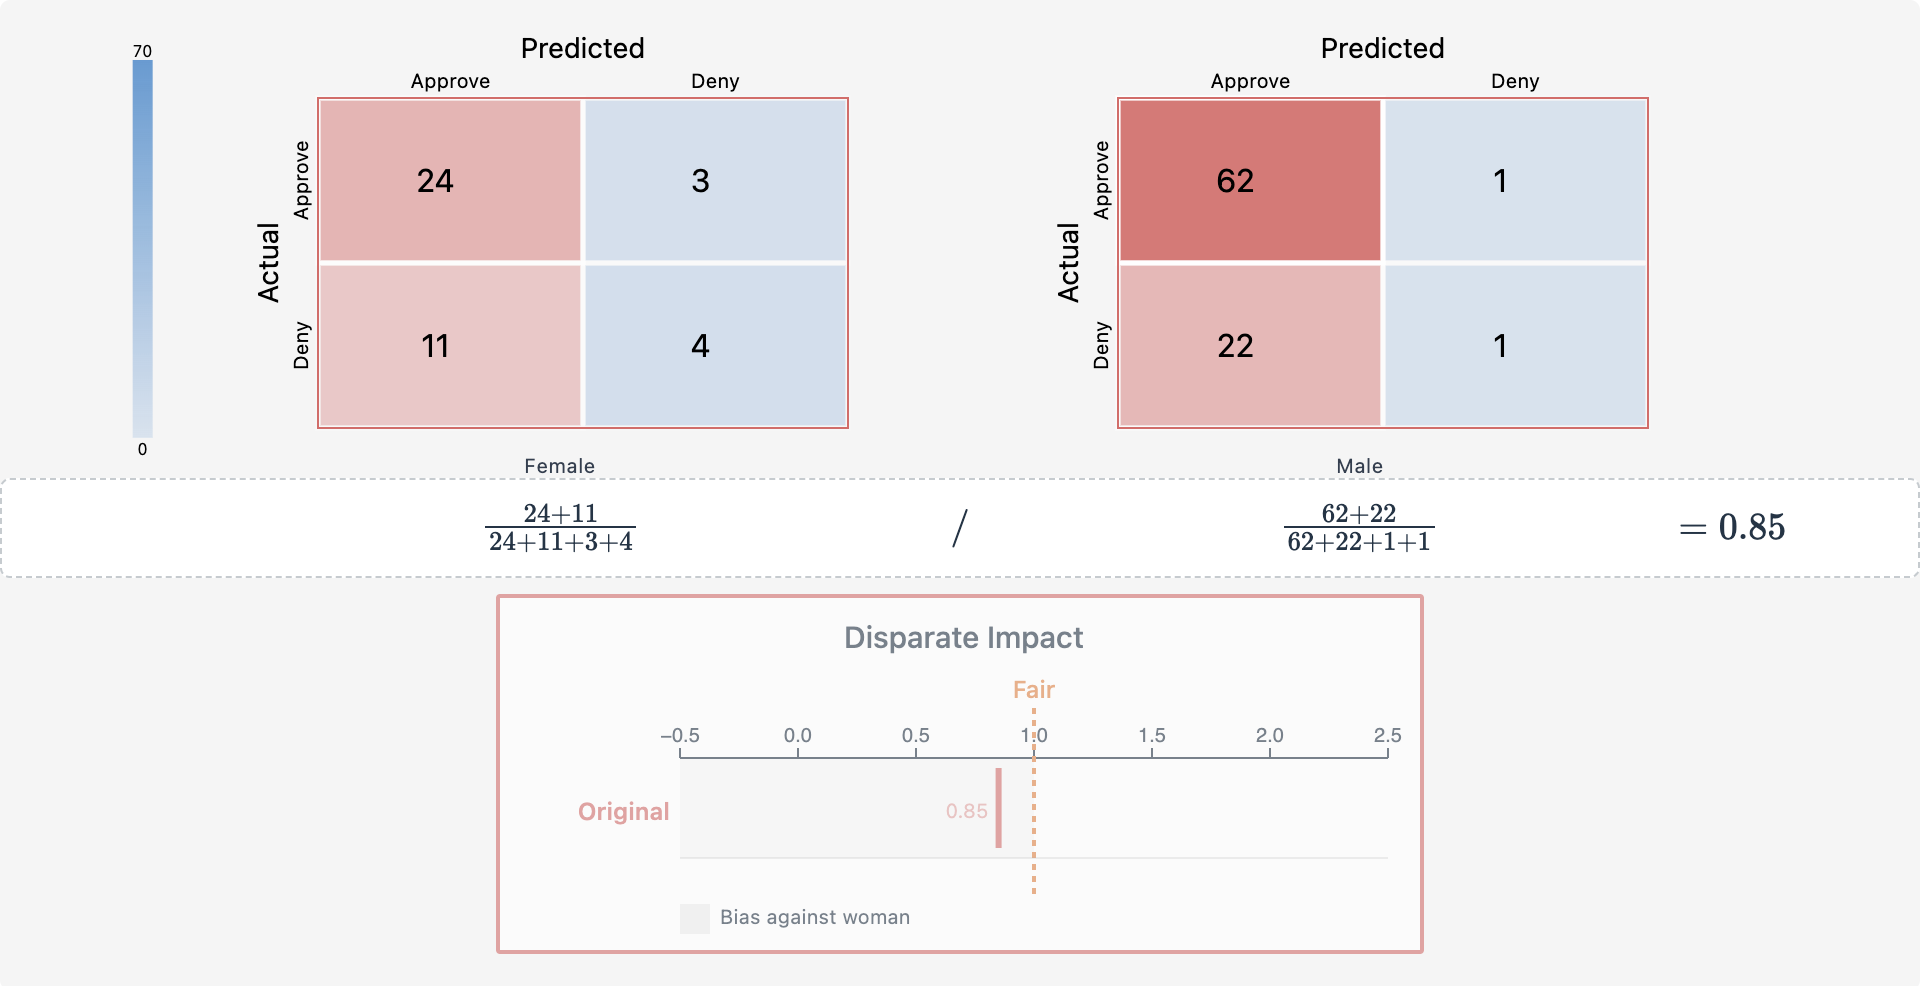
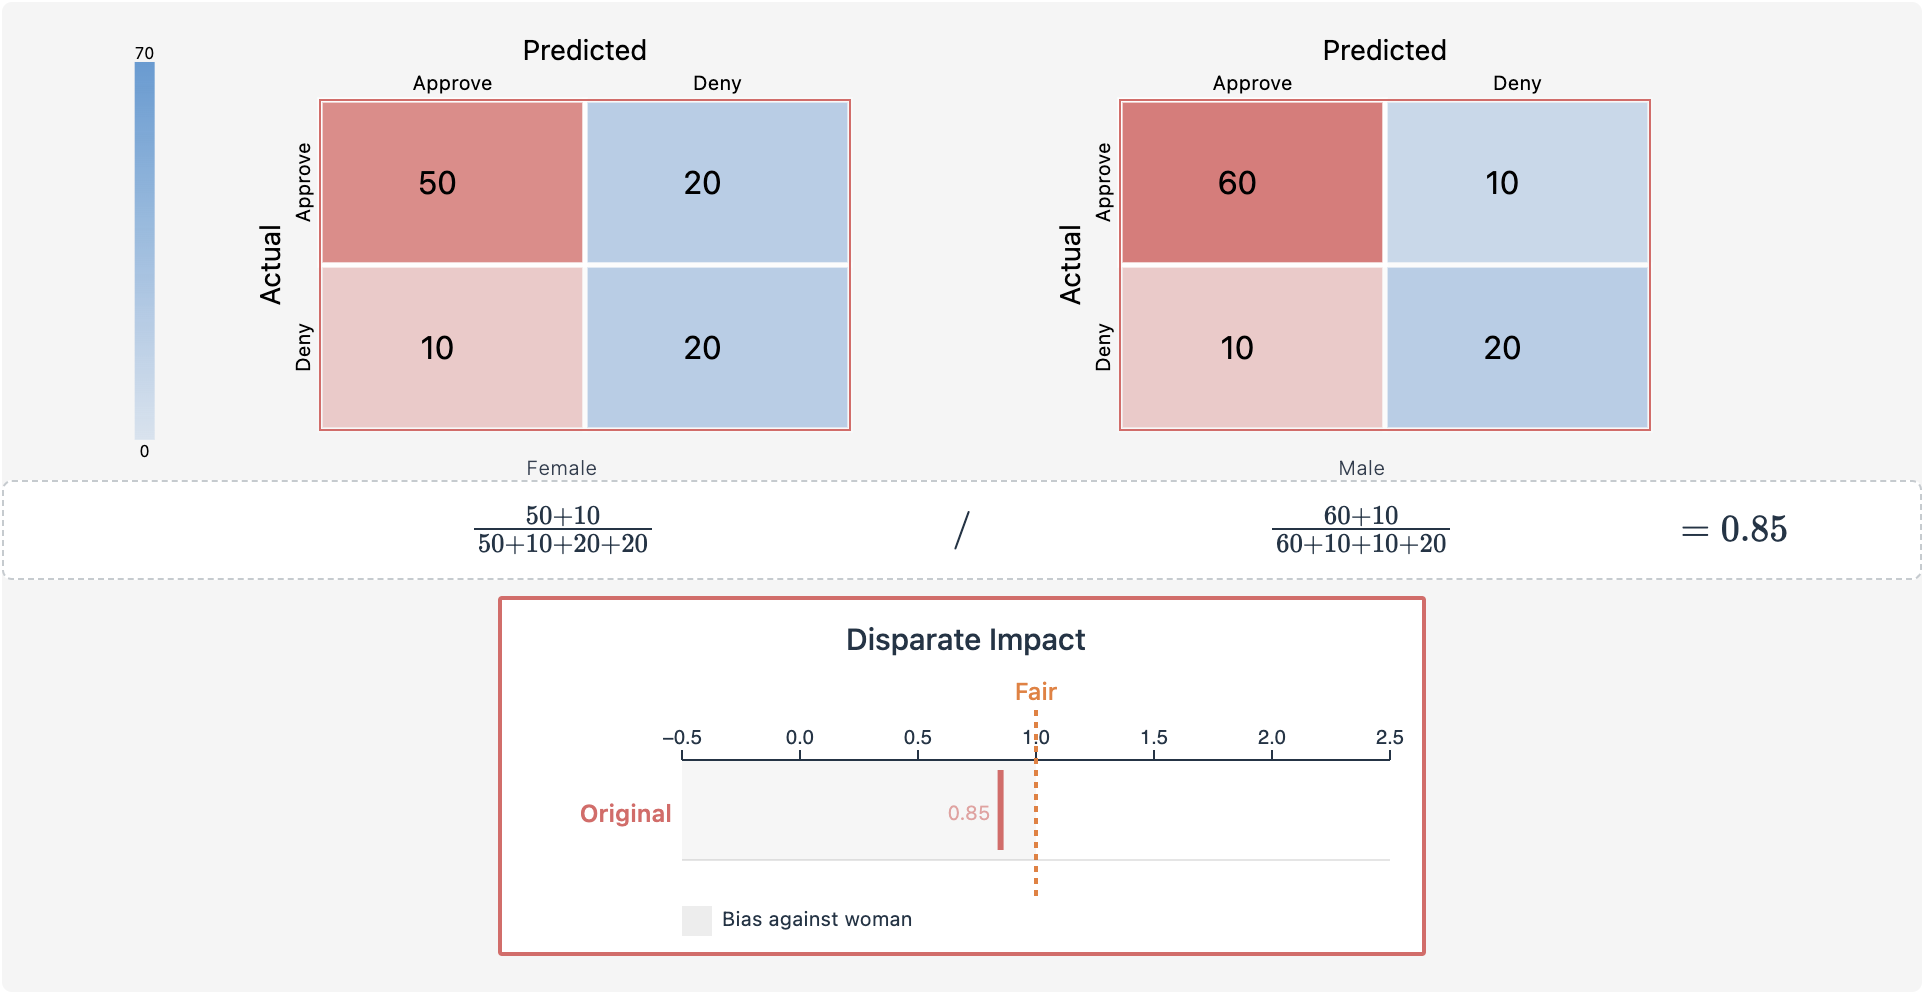
new

diff --git a/app/static/js/fairMetrics.js b/app/static/js/fairMetrics.js
@@ -89,7 +89,7 @@ class FairMetricsPanel{
      */
     async activate(){
         this.reset();
-        this.confusionMatrixData = [[[62, 1], [22, 1]], [[24, 3],[11, 4]]];
+        this.confusionMatrixData = [[[60, 10], [10, 20]], [[50, 20],[10, 20]]];
         this.initCFScale(this.confusionMatrixData);
 
         this.containerSelector
